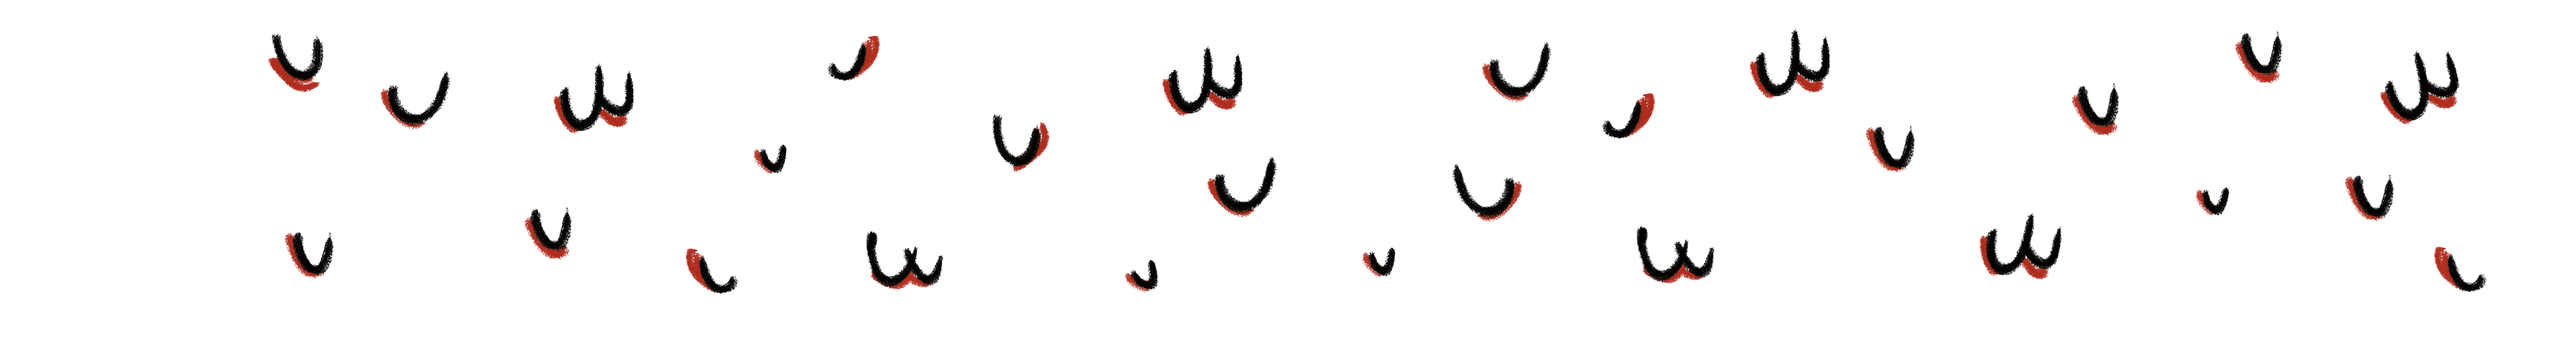
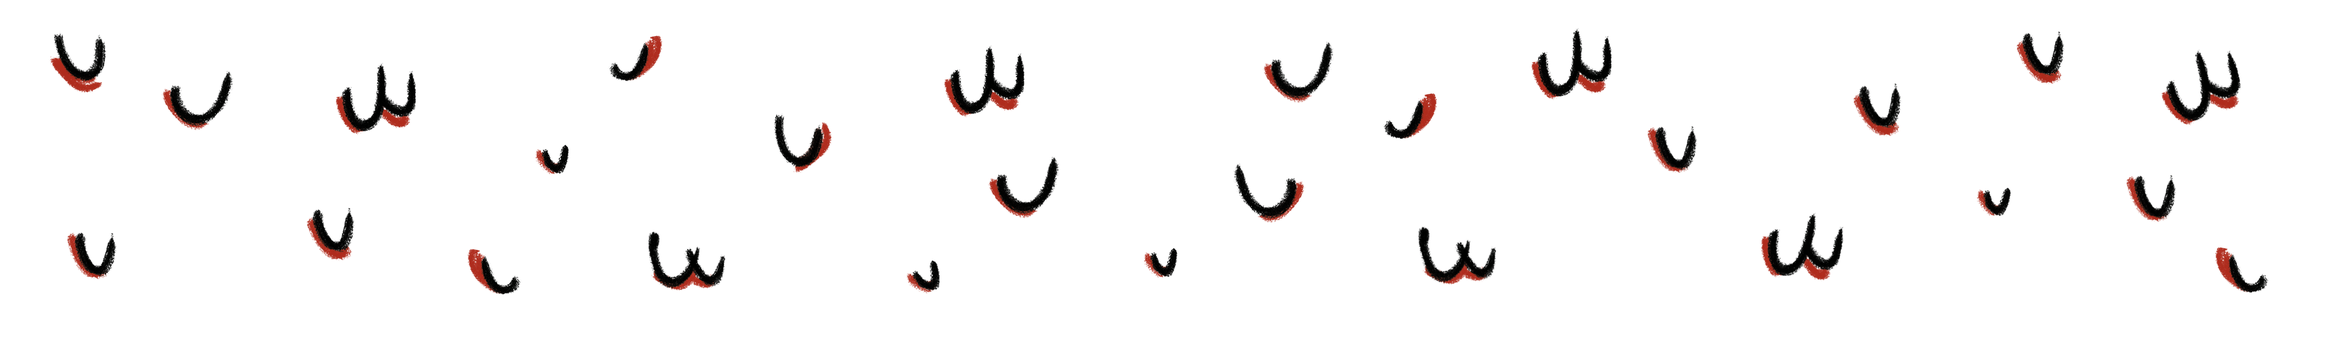
Responsive Design updates

diff --git a/app/Components/Monster.jsx b/app/Components/Monster.jsx
@@ -42,32 +42,54 @@ function Monster() {
   };
 
   return (
-    <div className="w-full md:h-[170px] pb-5 md:pb-0 mt-2 md:mt-5 bg-[#e74b37] flex flex-col items-center overflow-hidden">
-      <div id="anchor" className="w-[120px] md:w-full relative max-w-[225px]">
+    <div className="w-full h-[50px] sm:h-[70px] max-h-[80px] py-2 px-5 bg-[#e74b37] flex justify-center items-center overflow-hidden">
+      <Image
+        className="h-full min-h-[40px] w-max"
+        src={MonsterFurLeft}
+        alt="Monster fur left"
+      />
+      <Image
+        className="h-full min-h-[40px] w-max"
+        src={MonsterFurRight}
+        alt="Monster fur left"
+      />
+      <Image
+        className="h-full min-h-[40px] w-max"
+        src={MonsterFurLeft}
+        alt="Monster fur left"
+      />
+      <div id="anchor" className="h-full w-auto shrink-0 relative mx-2">
         <Image
-          className="absolute bottom-[2%] right-[100%] max-w-[500px] md:max-w-[1000px] transition-all duration-500 ease-in-out"
-          src={MonsterFurLeft}
-          alt="Monster fur left"
-        />
-        <Image
-          className="absolute bottom-[2%] left-[80%] max-w-[500px] md:max-w-[1000px] transition-all duration-500 ease-in-out"
-          src={MonsterFurRight}
-          alt="Monster fur right"
-        />
-        <Image src={MonsterBackground} alt="Monster background" />
-        <div>
+          className="h-full w-full"
+          src={MonsterBackground} alt="Monster background" />
+        <div className="absolute inset-0">
           <Image
-            className="eye absolute w-[49%] bottom-[20%] right-[53%]"
+            className="eye absolute w-[49%] right-[53%] top-[-5%]"
             src={MonsterEyeLeft}
             alt="Monster eye left"
           />
           <Image
-            className="eye absolute w-[49%] bottom-[20%] left-[55%]"
+            className="eye absolute w-[49%] left-[55%] top-[-5%]"
             src={MonsterEyeRight}
             alt="Monster eye right"
           />
         </div>
       </div>
+      <Image
+        className="h-full min-h-[40px] w-max"
+        src={MonsterFurRight}
+        alt="Monster fur right"
+      />
+      <Image
+        className="h-full min-h-[40px] w-max"
+        src={MonsterFurLeft}
+        alt="Monster fur right"
+      />
+      <Image
+        className="h-full min-h-[40px] w-max"
+        src={MonsterFurRight}
+        alt="Monster fur right"
+      />
     </div>
   );
 }

diff --git a/app/Components/Sections/Book.jsx b/app/Components/Sections/Book.jsx
@@ -32,11 +32,11 @@ const Book = () => {
       className="embla h-full w-full flex flex-col justify-center snap-start"
     >
       <Image
-        className="w-2/3 self-center my-10 hidden sm:block"
+        className="w-2/6 self-center my-5 hidden lg:block"
         src={TitelLine}
         alt="Titel"
       />
-      <div className="overflow-hidden rounded mx-5" ref={emblaRef}>
+      <div className="overflow-hidden mx-5 mt-5 lg:mt-0" ref={emblaRef}>
         <div className="embla__container flex">
           <Image src={Image1} alt="Image 1 of 5 from the book" />
           <Image src={Image2} alt="Image 2 of 5 from the book" />
@@ -46,21 +46,16 @@ const Book = () => {
         </div>
       </div>
 
-      <div className="embla__controls">
+      <div className="embla__controls hidden md:block">
         <div className="flex justify-center">
           <PrevButton onClick={onPrevButtonClick} disabled={prevBtnDisabled} />
           <NextButton onClick={onNextButtonClick} disabled={nextBtnDisabled} />
         </div>
       </div>
-      <div className="p-3 text-xs md:text-base bg-orange-950/10 rounded mx-5">
+      <div className="p-3 text-sm md:text-base bg-orange-950/10 rounded mx-5 mt-5 md:mt-0">
         <p>
           Alt ånder fred og ro i den lille familie; en mand, en dame og en kat.
-          Indtil pludselig en dag døren går op med et brag og et lille monster
-          kommer ind i deres liv! Men hvad stiller man op med et monster? Hvad
-          spiser det? Hvorfor råber det? Hvor vil det helst sove? <br /> En
-          charmerende billedbog for små monstre og deres store, nogle gange lidt
-          kedelige voksne, om hvor kaotisk familieforøgelse kan være ... og når
-          alt kommer til alt: dejlig og kram-fremkaldende!
+          Indtil pludselig en dag et monster sparker døren ind.
         </p>
       </div>
     </section>

diff --git a/app/Components/Sections/Contact.jsx b/app/Components/Sections/Contact.jsx
@@ -9,7 +9,7 @@ import NameMaria from "../../../public/images/NameM.png";
 
 function Contact() {
   return (
-    <section id="contact" className="w-full sm:h-full flex overflow-x-hidden snap-start">
+    <section id="contact" className="w-full py-10 min-h-screen flex overflow-x-hidden snap-start">
       {/* /* Maria */}
 
       <div className="mt-10 md:mt-0 md:mr-0 flex flex-col justify-center items-center w-full">
@@ -68,7 +68,7 @@ function Contact() {
                 ></Image>
                 <h3>Web Developer</h3>
                 <div className="flex justify-center space-x-5">
-                  <a className="mr-2" href="https://karlichristensen.vercel.app/">
+                  <a className="mr-2" href="https://karli.vercel.app/">
                     <Image
                       className="mt-5 h-6 w-6 hover:scale-110 transition-all ease-in-out"
                       src={WebsiteIcon}

diff --git a/app/Components/Navbar.jsx b/app/Components/Navbar.jsx
@@ -8,7 +8,7 @@ import Line from "../../public/images/Streg1.png";
 function Navbar() {
   return (
     <header className="fixed top-0 bg-transparent w-full">
-      <div className="relative flex flex-row items-center h-20">
+      <div className="relative flex flex-row items-center h-16">
         <ul className="w-full flex flex-row justify-center items-center space-x-1 md:space-x-4">
           <li className="hover:rotate-3 transform transition-all ease-in-out duration-300">
             <Link href="#book">
